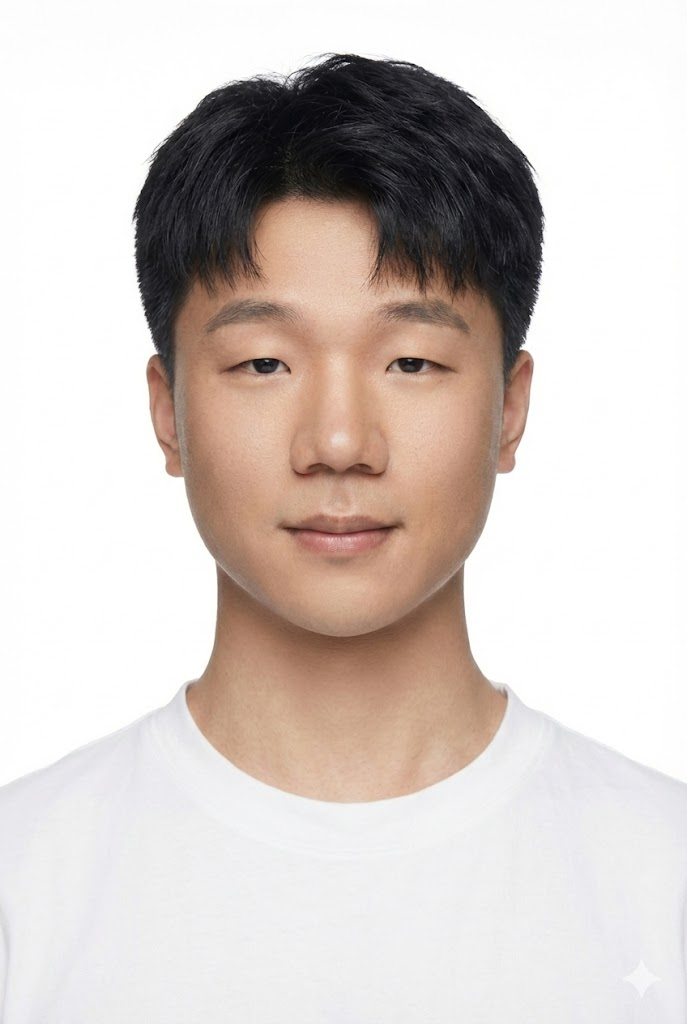
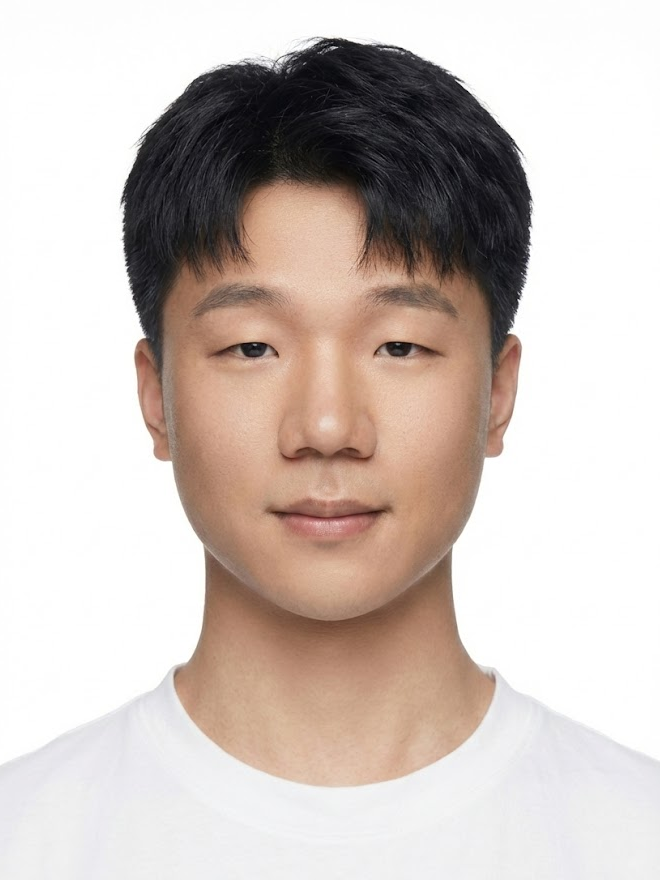
fix: 更新头像组件，调整图片尺寸与样式，提升视觉效果

diff --git a/src/app/page.tsx b/src/app/page.tsx
@@ -15,16 +15,14 @@ export default function HomePage() {
         <div className="grid gap-10 lg:grid-cols-[1.18fr_0.82fr] lg:items-start">
           <div className="space-y-6">
             <div className="flex items-start gap-4 sm:items-center sm:gap-5">
-              <div className="h-20 w-20 shrink-0 overflow-hidden rounded-2xl border border-slate-200 bg-slate-100 shadow-card sm:h-28 sm:w-28 dark:border-slate-700 dark:bg-slate-800">
-                <Image
-                  src="/avatar.png"
-                  alt={`${profile.name} 的头像`}
-                  width={112}
-                  height={112}
-                  className="h-full w-full object-cover"
-                  priority
-                />
-              </div>
+              <Image
+                src="/avatar.png"
+                alt={`${profile.name} 的头像`}
+                width={687}
+                height={1024}
+                className="h-auto w-20 shrink-0 sm:w-28"
+                priority
+              />
               <div className="space-y-1 sm:space-y-2">
                 <h1 className="text-3xl font-bold tracking-tight text-slate-900 sm:text-4xl lg:text-5xl dark:text-white">
                   {profile.name}
